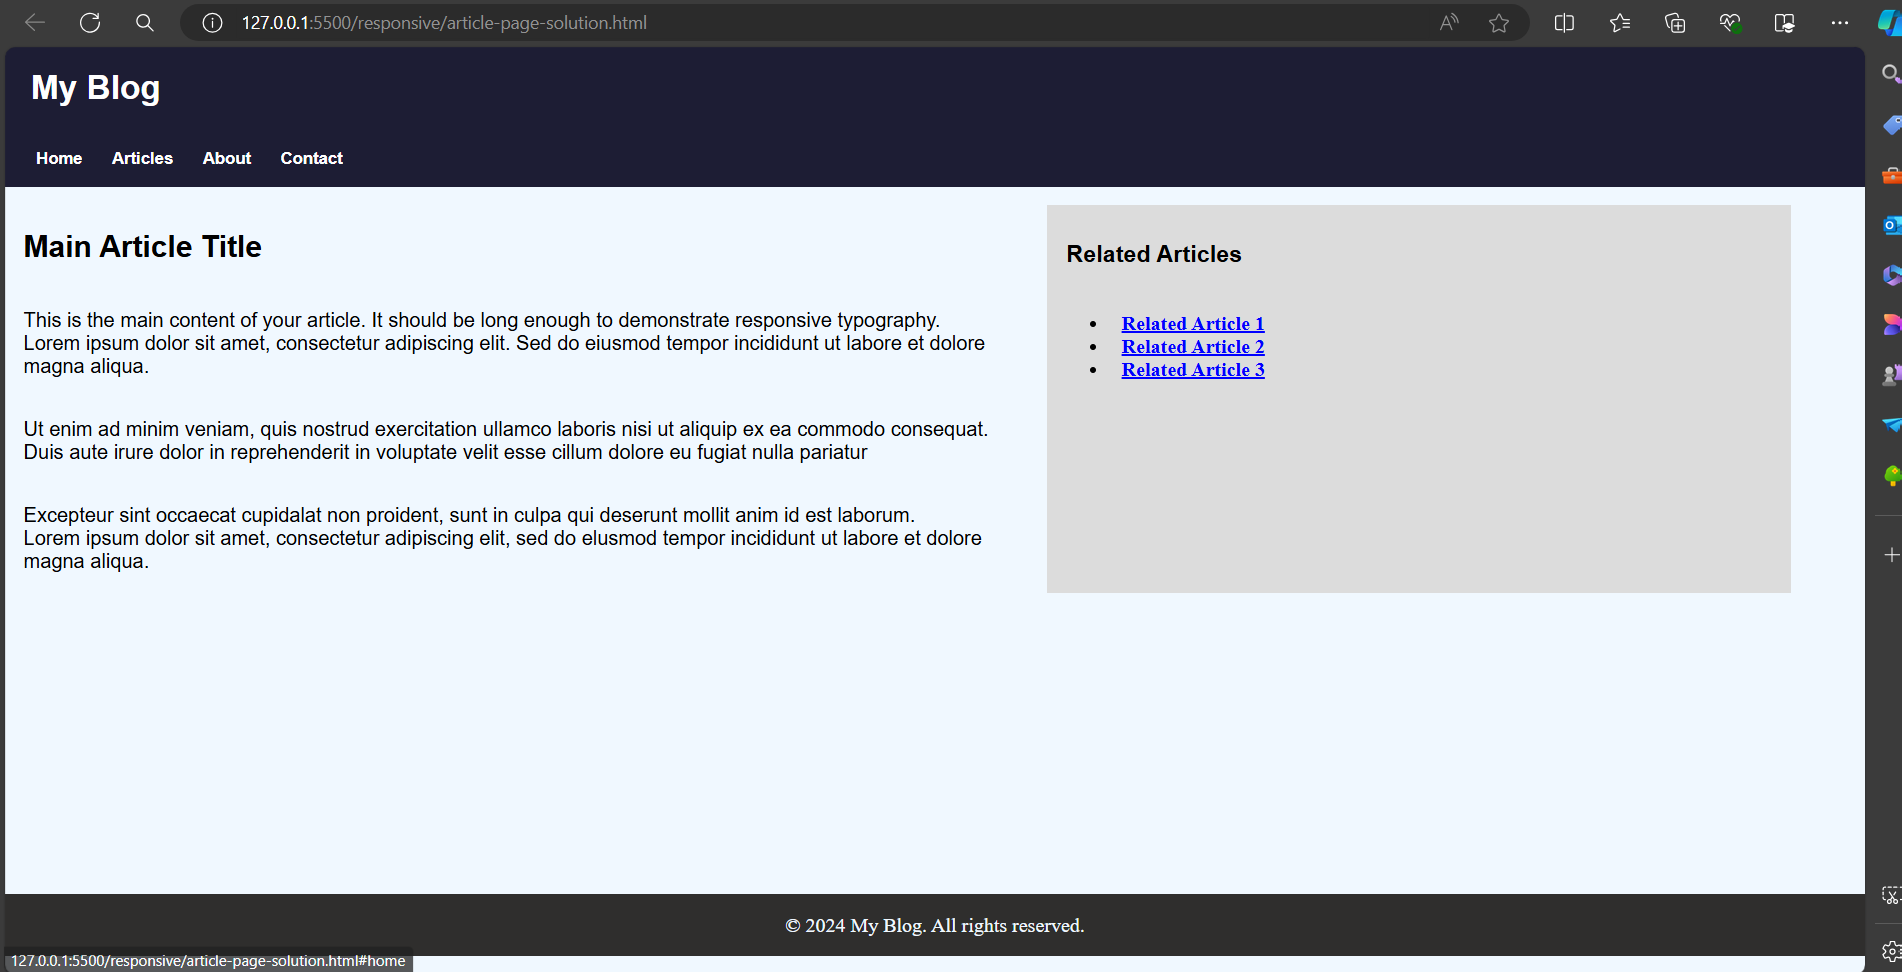
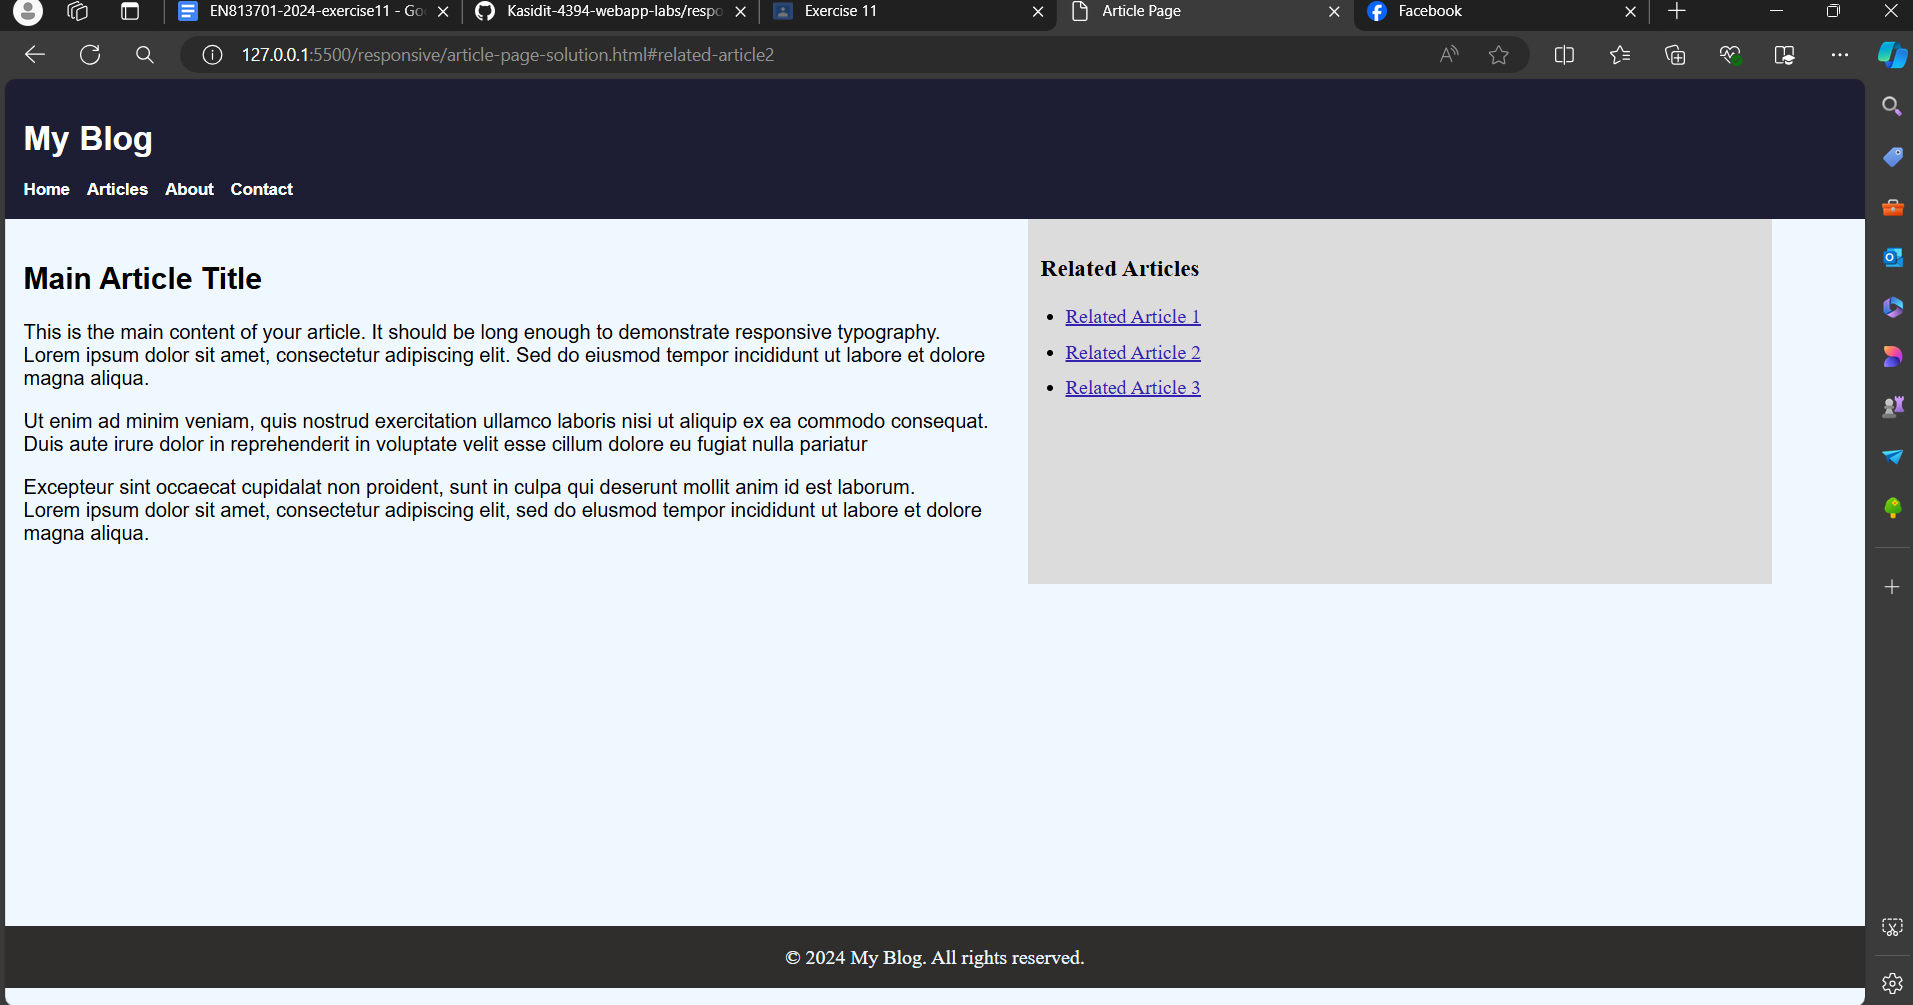
Ex11

diff --git a/responsive/article-page-solution.html b/responsive/article-page-solution.html
@@ -5,108 +5,103 @@
     <meta name="viewport" content="width=device-width, initial-scale=1.0">
     <title>Article Page</title>
     <style>
-                * {
+        * {
             box-sizing: border-box;
         }
         body {
             background-color: aliceblue;
-            margin: 0%;
-            display:grid;
+            margin: 0;
+            display: grid;
         }
-        #head {
-            font-size:smaller;
+        header {
+            font-size: smaller;
             font-family: Arial, Helvetica, sans-serif;
             font-weight: bold;
             color: white;
             background-color: rgb(29, 29, 52);
-            margin-bottom: 1%;
-        }
-        .a1 {
-            display: inline;
-
-        }
-        .l1 {
-            margin: 0;
             padding: 1%;
         }
-        li a {
+        nav ul {
+            margin: 0;
+            padding: 0;
+            list-style-type: none;
+        }
+        nav ul li {
+            display: inline;
+            margin-right: 10px;
+        }
+        nav ul li a {
             color: white;
-            padding: 10px;
             text-decoration: none;
         }
-        li b {
-            padding: 10px;
-            text-decoration-line: underline;
-            color: blue;
-            
-        }
-        h2 {
-            font-family: Arial, Helvetica, sans-serif;
-        }
-        .p {
+        main {
             display: flex;
             flex-wrap: wrap;
+        }
+        article {
             width: 55%;
-            float: left;
-            margin-left: 1%;
+            padding: 1%;
             font-family: Arial, Helvetica, sans-serif;
-        }
-        h3 {
-            font-family: Arial, Helvetica, sans-serif;
-            margin-left: 1%;
-        }
-
-        footer {
-        color: aliceblue;
-        position: fixed;
-        text-align: center;
-        bottom: 2%;
-        width: 100%;
-        height: 50px;
-        margin: 0 auto;
-        background-color: rgb(47, 46, 45);
         }
         aside {
-            display: flex;
-            flex-direction: column;
-            background-color: gainsboro;
             width: 40%;
-            height: 100%;
-            float: left;
+            background-color: gainsboro;
             padding: 10px;
         }
-
+        aside ul {
+            list-style-type: disc;
+            padding-left: 20px;
+        }
+        aside ul li {
+            margin-bottom: 10px;
+        }
+        aside ul li a {
+            color: rgb(52, 35, 177);
+            text-decoration: underline;
+        }
+        footer {
+            color: aliceblue;
+            position: fixed;
+            text-align: center;
+            bottom: 2%;
+            width: 100%;
+            height: 50px;
+            background-color: rgb(47, 46, 45);
+            margin: 0 auto;
+        }
         @media (max-width: 769px) {
-            .p {
+            article {
                 width: 100%;
             }
-            ul {
+            aside {
+                width: 40%;
+                margin-bottom: 15%;
+            }
+            nav ul {
                 display: flex;
                 flex-direction: column;
             }
-            li {
+            nav ul li {
                 display: block;
                 margin-bottom: 10px;
             }
         }
-
     </style>
 </head>
 <body>
-    <header id="head">
-        <h1 style="margin-left: 1.4%;">My Blog</h1>
+    <header>
+        <h1>My Blog</h1>
         <nav>
-            <ul class="l1">
-                <li class="a1"><a href="#home">Home</a></li>
-                <li class="a1"><a href="#articles">Articles</a></li>
-                <li class="a1"><a href="#about">About</a></li>
-                <li class="a1"><a href="#contact">Contact</a></li>
+            <ul>
+                <li><a href="#home">Home</a></li>
+                <li><a href="#articles">Articles</a></li>
+                <li><a href="#about">About</a></li>
+                <li><a href="#contact">Contact</a></li>
             </ul>
         </nav>
-        
     </header>
     <main>
-        <article class="p">
+        <article>
             <h2>Main Article Title</h2>
             <p>This is the main content of your article. It should be long enough to demonstrate responsive typography. <br>Lorem ipsum dolor sit amet, consectetur adipiscing elit. Sed do eiusmod tempor incididunt ut labore et dolore <br>magna aliqua. </p>
             <p>Ut enim ad minim veniam, quis nostrud exercitation ullamco laboris nisi ut aliquip ex ea commodo consequat.<br>Duis aute irure dolor in reprehenderit in voluptate velit esse cillum dolore eu fugiat nulla pariatur</p>
@@ -115,9 +110,9 @@
         <aside>
             <h3>Related Articles</h3>
             <ul>
-                <li><b href="#related article1">Related Article 1</b></li>
-                <li><b href="#related article 2">Related Article 2</b></li>
-                <li><b href="#related article 3">Related Article 3</b></li>
+                <li><a href="#related-article1">Related Article 1</a></li>
+                <li><a href="#related-article2">Related Article 2</a></li>
+                <li><a href="#related-article3">Related Article 3</a></li>
             </ul>
         </aside>
     </main>

diff --git a/responsive/eco-friendly-landing-page-complete.html b/responsive/eco-friendly-landing-page-complete.html
@@ -69,7 +69,8 @@
             border-radius: 3%;
         }
         img {
-            border-radius: 2%;
+            border-top-left-radius: 3%;
+            border-top-right-radius: 3%;
         }
         .product-grid {
             display: grid;
